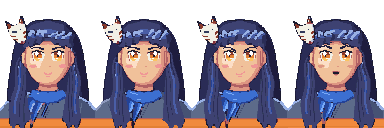
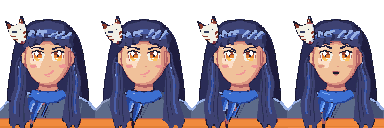
Shade: her own smirk mouth
Claude-Session: https://claude.ai/code/session_01J8LgTLVYzThXjNSRVhWqep

diff --git a/tools/sprites/anime_flicker.py b/tools/sprites/anime_flicker.py
@@ -46,7 +46,7 @@ F_KIM = {FKIM, FKIM_S, FKIM_D, FKIM_L}
 F_ORANGE = {ORANGE, LIGHT_OR, FOR_D}
 F_MASK = {CREAM, FSM, FSM_L}
 
-FBASE = dict(hair="long", eyes="animeB", mask="side", scarf="tail", outfit="cross", bangs="curtain", cheeks=-0.03,
+FBASE = dict(mouth="smirk", hair="long", eyes="animeB", mask="side", scarf="tail", outfit="cross", bangs="curtain", cheeks=-0.03,
              lift=0.0, wind=0.0, iris="ember", mode="open", sidelock=False)
 
 
@@ -321,6 +321,45 @@ def f_eye_closed(img, d, cx, cy, side, o, wide=1.0):
     return d
 
 
+
+# ---------------------------------------------------------------- her own mouth (patched over Sakura's s_mouth while drawing)
+F_MOUTH = ["smirk"]
+F_ORIG_MOUTH = ab.s_mouth
+
+
+def f_mouth(d, kind):
+    if kind == "shout":
+        return F_ORIG_MOUTH(d, kind)
+    m = F_MOUTH[0]
+    det = 0.5 if kind == "determined" else 0.0
+    ab.YOFF[0] = -2.7
+    col = lc(LIP)
+
+    def line(pts, w=12):
+        d.line([P(*p) for p in smooth(pts, 6)], fill=col, width=w, joint="curve")
+    if m == "smirk":        # A: cool one-sided smirk, right corner high, tiny dimple tick
+        line([(21.9, 39.9), (23.4, 40.0), (25.0, 39.5), (26.2, 38.6), (26.7, 38.0 - det)])
+        d.line([P(23.4, 41.0), P(25.2, 40.8)], fill=BLUSH, width=6)
+        d.rectangle((26.9 * K, (38.9 - det) * K - 2, 27.3 * K, (39.5 - det) * K), fill=SK_S)
+    elif m == "serious":    # B: short neutral line, one corner turned down
+        line([(21.9, 39.7), (23.2, 39.9), (24.8, 39.9), (25.9, 40.1), (26.3, 40.7 - det)])
+        d.line([P(23.0, 40.9), P(24.6, 40.9)], fill=BLUSH, width=5)
+    elif m == "full":       # C: fuller lips, upper line + a soft lower lip with a highlight
+        line([(21.9, 39.3), (23.0, 39.6), (24.0, 39.3), (25.0, 39.6), (26.1, 39.2 - det)])
+        d.ellipse((22.6 * K, 40.0 * K, 25.6 * K, 41.3 * K), fill=BLUSH)
+        d.line([P(23.4, 40.35), P(24.4, 40.35)], fill=SK_L, width=5)
+    else:                   # D: playful small smile with a tiny fang
+        line([(22.2, 39.2), (23.2, 39.9), (24.4, 40.0), (25.4, 39.6), (26.0, 38.8 - det)])
+        d.rectangle((22.95 * K, 39.45 * K, 23.45 * K, 40.5 * K), fill=CREAM)
+        d.line([P(23.4, 41.0), P(25.0, 40.9)], fill=BLUSH, width=5)
+    ab.YOFF[0] = 0.0
+
+
+F_MOUTHS = [("A", "smirk", "A: cool one-sided smirk (mysterious)"), ("B", "serious", "B: small neutral line, one corner turned down (serious)"),
+            ("C", "full", "C: fuller lips with a soft lower-lip highlight (calm, attractive)"),
+            ("D", "fang", "D: playful small smile with a tiny fang")]
+
+
 def f_draw_frame(sway, expr, cfg):
     img = Image.new("RGB", (SW, SH), BG)
     f_back_hair(img, sway, cfg)
@@ -328,12 +367,14 @@ def f_draw_frame(sway, expr, cfg):
     neckm, torm = f_draw_torso(img, d, sway, cfg)
     f_hair_under(img, sway, cfg)
     orig = ab.s_eye
+    ab.s_mouth = f_mouth
     if cfg["mode"] == "closed":
         ab.s_eye = f_eye_closed
     try:
         facem = ab.s_draw_face(img, neckm, torm, expr)
     finally:
         ab.s_eye = orig
+        ab.s_mouth = F_ORIG_MOUTH
     f_hair_front(img, facem, sway, cfg)
     f_mask(img, cfg, sway)
     return img
@@ -389,6 +430,7 @@ def make_frame(sway, expr, cfg=None, extra=None):
     cfg = dict(FBASE, **(cfg or {}))
     ab.SCFG = dict(ab.SDEFAULT, eyes=cfg["eyes"], iris=cfg["iris"] if cfg["mode"] != "flash" else "flash", hair="long",
                    cheeks=cfg["cheeks"], shade=1)
+    F_MOUTH[0] = cfg["mouth"]
     src = f_draw_frame(sway, expr, cfg)
     diff = ImageChops.difference(src, Image.new("RGB", src.size, BG)).convert("L").point(lambda v: 255 if v > 0 else 0)
     mask = diff.resize((W, H), Image.BOX).point(lambda v: 255 if v > 110 else 0)
@@ -474,7 +516,7 @@ F_VARIANTS = [
 ]
 
 
-def f_variants_sheet(review, flint_frame):
+def f_variants_sheet(review, flint_frame, name="flicker_variants", items=None):
     from PIL import ImageFont
     S = 4
     bg = (92, 112, 134, 255)
@@ -485,17 +527,18 @@ def f_variants_sheet(review, flint_frame):
     except TypeError:
         font = ImageFont.load_default()
     d = ImageDraw.Draw(sheet)
-    tiles = [("Flint", flint_frame)] + [(lab, make_frame(-1, "calm", cfg)) for lab, cfg, _ in F_VARIANTS]
+    items = items or F_VARIANTS
+    tiles = [("Flint", flint_frame)] + [(lab, make_frame(-1, "calm", cfg)) for lab, cfg, _ in items]
     for i, (label, f) in enumerate(tiles):
         big = f.resize((W * S, H * S), Image.NEAREST)
         sheet.paste(big, (8 + i * cw, 8), big)
         tw = d.textlength(label, font=font)
         d.text((8 + i * cw + (W * S - tw) / 2, H * S + 20), label, fill=(255, 255, 255, 255), font=font)
         sheet.alpha_composite(f, (8 + i * cw + (W * S - W) // 2, H * S + 90 + 8))
-    sheet.convert("RGB").save(os.path.join(review, "flicker_variants.png"))
-    with open(os.path.join(review, "flicker_variants_key.txt"), "w") as fh:
+    sheet.convert("RGB").save(os.path.join(review, name + ".png"))
+    with open(os.path.join(review, name + "_key.txt"), "w") as fh:
         fh.write("Flint = reference (far left)\n")
-        for lab, cfg, text in F_VARIANTS:
+        for lab, cfg, text in items:
             fh.write(text + "\n")
 
 
@@ -564,6 +607,7 @@ def main():
     if review:
         os.makedirs(review, exist_ok=True)
         f_variants_sheet(review, flint)
+        f_variants_sheet(review, flint, "flicker_mouths", [(l, dict(F_SHIP, mouth=k), t) for l, k, t in F_MOUTHS])
     frames = f_bust_frames()
     strip = Image.new("RGBA", (W * 4, H), (0, 0, 0, 0))
     for i, f in enumerate(frames):
